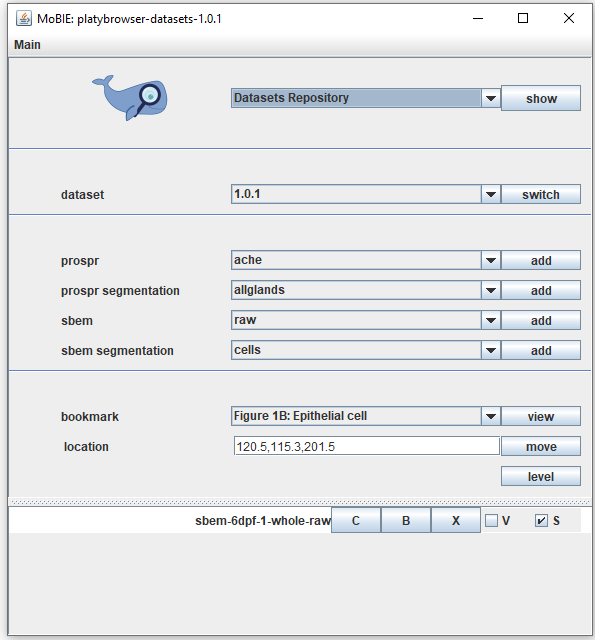
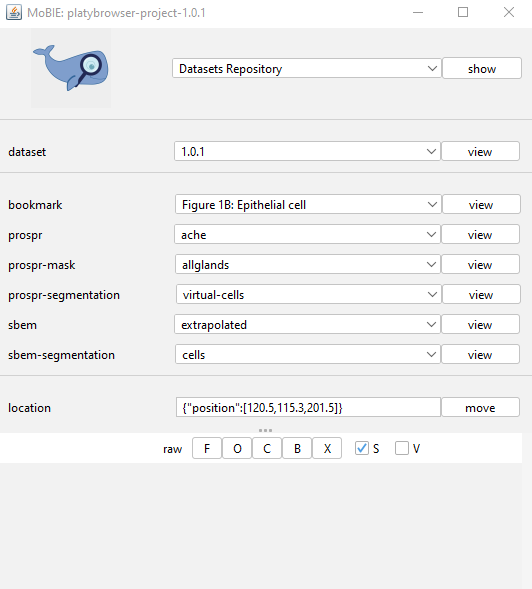
update explore a project tutorial

Changed region(s): [[0.0, 0.0, 1.0, 1.0]]

diff --git a/tutorials/explore_a_project.md b/tutorials/explore_a_project.md
@@ -5,14 +5,16 @@ needed to display your data e.g. which images and tables to display, where they 
 
 ### How to explore an existing project?
 
-Once the MoBIE plugin has been installed (see instructions [here](https://github.com/mobie/mobie-viewer-fiji#install),
+Once the MoBIE plugin has been installed (see instructions [here](./installation.md)),
 you can open a project:
 
-1. In the Fiji search bar, type: "mobie"<br> <img width="460" alt="image" src="./tutorial_images/mobie_command.png"> <br> 
+1. In the Fiji search bar, type: "mobie"<br> <img width="460" alt="image" src="./tutorial_images/mobie_command.png"> <br>
 ...select 'Open MoBIE Project..' and click [ Run ]  
+
 2. Enter the location of the project (a github repository).  
-We will use the published 'Platybrowser' project as an example (location: https://github.com/mobie/platybrowser-datasets)
- <br><img width="300" alt="image" src="./tutorial_images/project_location.png">
+We will use the published 'Platybrowser' project as an example (location: https://github.com/mobie/platybrowser-project)
+ <br><img width="400" alt="image" src="./tutorial_images/project_location.png">
+
 3. The MoBIE viewer is ready to be used:<br><img width="800" alt="image" src="./tutorial_images/ui.png">
 
 The left window contains all the controls for MoBIE, and the right is a [BigDataViewer](https://imagej.net/BigDataViewer)
@@ -22,10 +24,10 @@ Note: It is also possible to open projects from your local file system.
 
 ### Browsing in the viewer
 
-All the controls for BigDataViewer can be found under Help > Show Help in the menu at the top of the 
-viewer.
+All the controls for BigDataViewer can be found under Help > Show Help in the menu at the top of the viewer.
 
-<img width="460" alt="image" src="./tutorial_images/viewer_browsing.gif">  
+<img width="460" alt="image" src="./tutorial_images/viewer_browsing.gif">
+
 The most important controls are:   
 
 * **[Left click + drag]** Rotate view
@@ -47,28 +49,37 @@ after rounds of segmentation proofreading.
 **Descriptions of buttons:**  
 
 - **[ show ] Get information / help on a certain topic.** Select an item from the drop-down and click the button.
-- **[ switch ] Switch dataset.** Select a dataset from the drop-down and click the button.
-- **[ add ] Add an image source to the view.** Select an image source from the drop-downs and click the button. If the image source is a segmentation, also a corresponding objects table will appear. 
-**Note:** the categories available here are specific to the project! e.g. in this example project, two categories 'propsr' (gene expression data) and 'sbem' (electron microscopy data) are available.
-- **[ view ] View a bookmark.** Select a bookmark from the drop-down and click the button. The corresponding bookmarked view will appear. See [here](./bookmarks_and_locations.md) for more information.
+- **[ view ] on the 'dataset' row - switch dataset.** Select a dataset from the drop-down and click the button.
+- **[ view ] on any other row - display a view** Select a view from the drop-down menus and click the button. Views can contain a number of images and segmentations, as well as tables, plots and 3D views.
+**Note:** the drop-down groups available here are specific to the project! e.g. in this example project, groups like 'propsr' (gene expression data) and 'sbem' (electron microscopy data) are available.
 - **[ move ] Move to a particular position or view.** See [here](./bookmarks_and_locations.md) for more information.
 
 ### Sources Panel
 As you add more images to the viewer, they will appear in the **sources panel**, like below:
-<img width="460" alt="image" src="./tutorial_images/sources_buttons.png">  
+<img width="500" alt="image" src="./tutorial_images/sources_buttons.png">  
 
 To control the image sources appearance, there are several buttons...
 
+- **[ F ]**  Focus the viewer on the source
+- **[ O ]**  Change the opacity
 - **[ C ]**  Change the color
 - **[ B ]**  Change the brightness settings
 - **[ X ]**  Remove from viewer and sources panel
 
 ...and checkboxes:
 
-- **[ X ] V**  Check to show source in **v**olume viewer
-- **[ X ] S**  Check to show source in **s**licing viewer (i.e., BigDataViewer) 
+- **[ X ] S**  Check to show source in **s**licing viewer (i.e., BigDataViewer)
+- **[ X ] V**  Check to show source in **v**olume viewer (i.e. in 3D)
+- **[ X ] T**  Check to show **t**able
+- **[ X ] P**  Check to show **p** plot (i.e. a scatter plot)
 
-<img width="800" alt="image" src="./tutorial_images/sourcesPanel.gif"> 
+Note that the available buttons and checkboxes depends on what was present in the selected view e.g. the **T** checkbox will only appear if a table is available.
 
 
+<img width="800" alt="image" src="./tutorial_images/sourcesPanel.gif">
 
+### Other Controls
+
+There are some extra MoBIE options available by right clicking in the BigDataViewer window. For example, making high quality screenshots, or logging the current position.
+
+<img width="500" alt="image" src="./tutorial_images/contextMenu.png">

diff --git a/index.md b/index.md
@@ -15,8 +15,9 @@ views, images and tables for your colleagues to explore
 
 **Get started with the tutorials below:**
 
-## Exploring existing projects
 - [Installation](./tutorials/installation.md)
+
+## Exploring existing projects
 - [Getting Started](./tutorials/explore_a_project.md)
 - [Exploring segmentations and tables](./tutorials/exploring_segmentations.md)
 - [Locations and bookmarks](./tutorials/bookmarks_and_locations.md)
@@ -32,4 +33,4 @@ views, images and tables for your colleagues to explore
 - [Bookmark structure](./tutorials/bookmarks.md)
 
 ## MoBIE specification:
-- [MoBIE projects are stored according to a jsonschema based specification](./specs/mobie_spec.md) (This specification is work in progress and the current MoBIE Fiji plugin does not support it yet. We plan to update this very soon!)
+- [MoBIE projects are stored according to a jsonschema based specification](./specs/mobie_spec.md)
